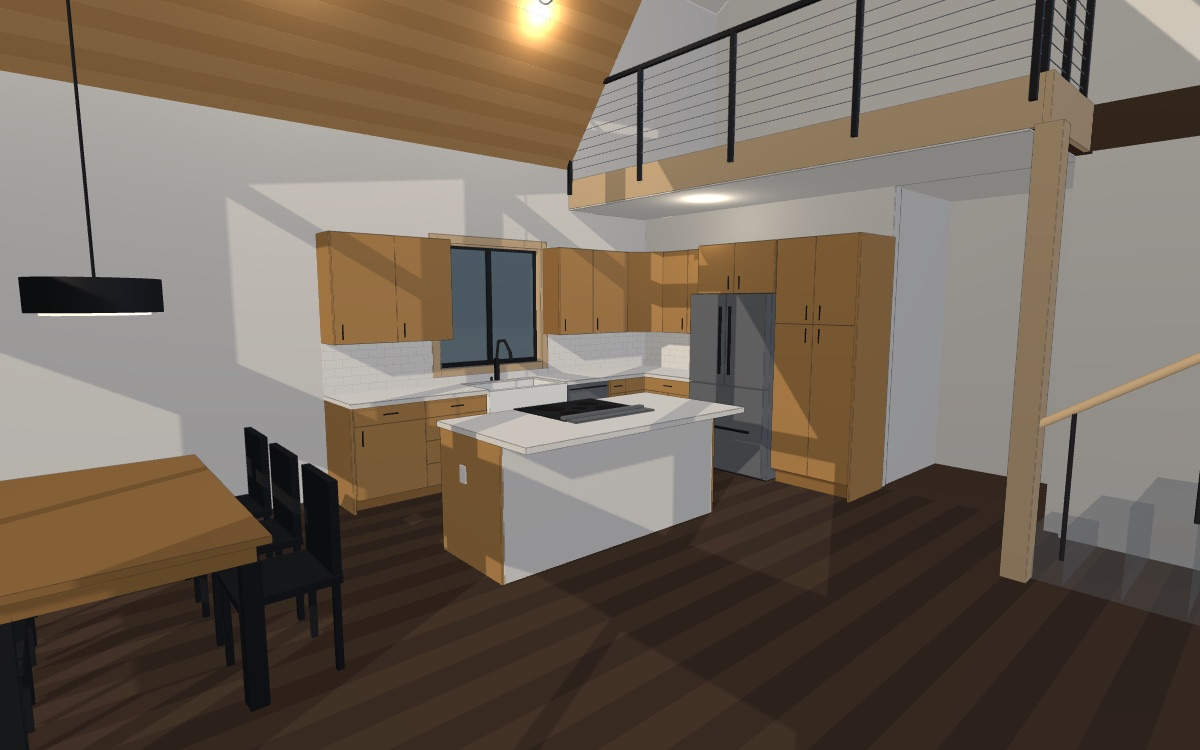
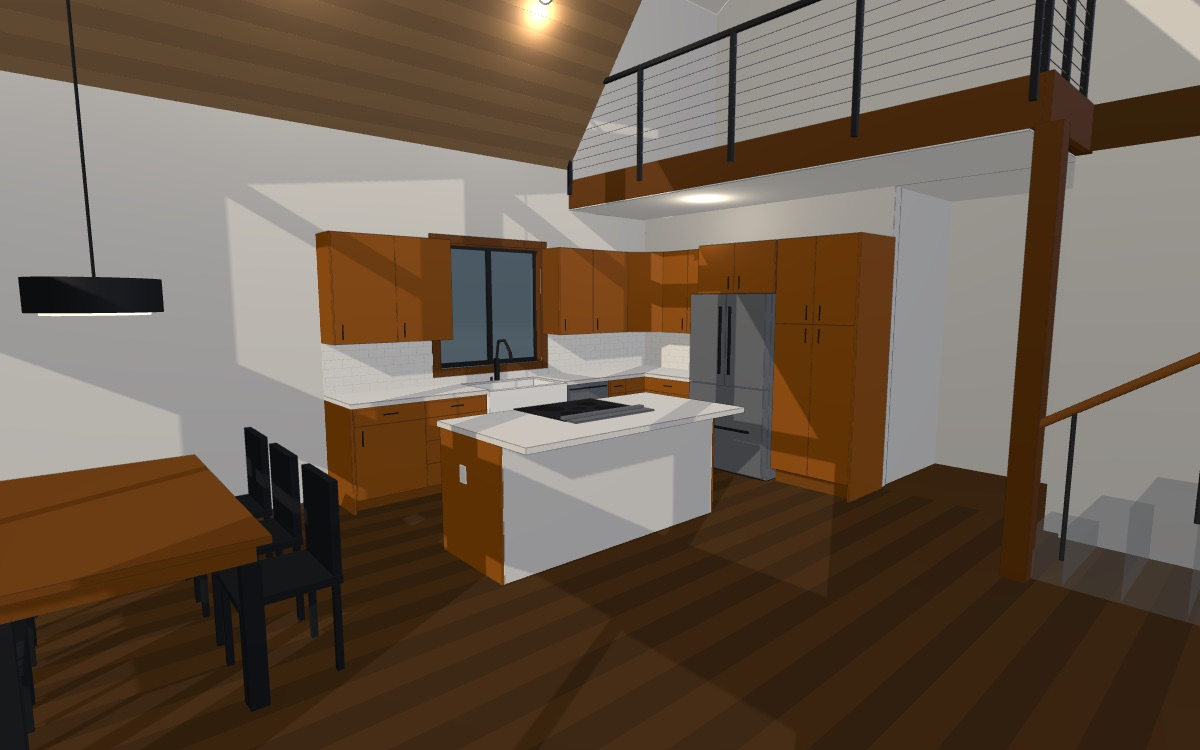
feat: kitchen renders and finish-option sheets on the kitchen card

diff --git a/index.html b/index.html
@@ -33,6 +33,13 @@
   .chips a{font-size:12px;padding:5px 10px;border-radius:999px;border:1px solid var(--line);background:#2c313a;color:#dfe3e8;}
   .chips a:hover{background:#3a404b;}
   .chips a.open{background:var(--accent);border-color:var(--accent);color:#1b1e23;font-weight:600;}
+  .renders{display:grid;grid-template-columns:1fr 1fr;gap:8px;margin-top:2px;}
+  .renders figure{margin:0;}
+  .renders .wide{grid-column:1 / -1;}
+  .renders a{display:block;border-radius:8px;overflow:hidden;border:1px solid var(--line);background:#14161a;}
+  .renders img{width:100%;height:auto;display:block;transition:transform .2s ease;}
+  .renders a:hover img{transform:scale(1.02);}
+  .renders figcaption{font-size:11.5px;color:var(--muted);line-height:1.35;margin-top:4px;}
   .gallery .grid{display:grid;grid-template-columns:repeat(auto-fill,minmax(220px,1fr));gap:12px;}
   .gallery a{display:block;border-radius:10px;overflow:hidden;border:1px solid var(--line);aspect-ratio:4/3;background:#14161a;}
   .gallery img{width:100%;height:100%;object-fit:cover;display:block;transition:transform .2s ease;}
@@ -164,7 +171,18 @@
       <div class="body">
         <h3><a href="kitchen.html">Kitchen &amp; great room &mdash; lower floor interior</a></h3>
         <p>Lower-floor kitchen and great room: the sink run under window D, the fridge and pantry wall under the lounge, a 6'-8" x 3'-6" island, the wood stove and the stair.</p>
-        <span class="meta">Updated 2026-09-14 &middot; 8 camera views</span>
+        <span class="meta">Updated 2026-09-15 &middot; 8 camera views</span>
+        <!-- renders:kitchen -->
+          <span class="meta">Renders (finishes are stand-ins until the samples are photographed)</span>
+          <div class="renders">
+            <figure><a href="img/renders/kitchen/kitchen__default__875ca66.jpg" target="_blank" rel="noopener"><img src="img/renders/kitchen/kitchen__default__875ca66.jpg" alt="Kitchen view from the north-west, default finishes, staged with a bowl, cutting board, plant and basket (decoration, not measured). The bar stools and the dining table are measured placeholders and an open owner decision. The view through window D is a stock sky image, not this site." loading="lazy"></a><figcaption>Kitchen view from the north-west, default finishes, staged with a bowl, cutting board, plant and basket (decoration, not measured). The bar stools and the dining table are measured placeholders and an open owner decision. The view through window D is a stock sky image, not this site.</figcaption></figure>
+            <figure><a href="img/renders/kitchen/island__default__875ca66.jpg" target="_blank" rel="noopener"><img src="img/renders/kitchen/island__default__875ca66.jpg" alt="Island view from the east, default finishes, staged with a cutting board and a bowl on the island (decoration, not measured); the plant and basket sit behind this camera. The dining table and chairs are measured placeholders and an open owner decision. Window views are stand-ins: the owner&#x27;s Mount Rainier photograph, stretched wide, in the north slider, a stock sky in the other windows." loading="lazy"></a><figcaption>Island view from the east, default finishes, staged with a cutting board and a bowl on the island (decoration, not measured); the plant and basket sit behind this camera. The dining table and chairs are measured placeholders and an open owner decision. Window views are stand-ins: the owner&#x27;s Mount Rainier photograph, stretched wide, in the north slider, a stock sky in the other windows.</figcaption></figure>
+            <figure><a href="img/renders/kitchen/sink__default__875ca66.jpg" target="_blank" rel="noopener"><img src="img/renders/kitchen/sink__default__875ca66.jpg" alt="Sink view, default finishes, staged with a potted plant left of the sink and a wicker basket right of it (decoration, not measured). The light switch beside the window overlaps the casing, a takeoff still to be read from sheet E01. The view through window D is a stock sky image, not this site." loading="lazy"></a><figcaption>Sink view, default finishes, staged with a potted plant left of the sink and a wicker basket right of it (decoration, not measured). The light switch beside the window overlaps the casing, a takeoff still to be read from sheet E01. The view through window D is a stock sky image, not this site.</figcaption></figure>
+            <figure class="wide"><a href="img/renders/kitchen/island__default-vs-alder-husk-vs-alder-praline__875ca66.jpg" target="_blank" rel="noopener"><img src="img/renders/kitchen/island__default-vs-alder-husk-vs-alder-praline__875ca66.jpg" alt="Island view comparing two cabinet stain options against the default: alder-husk (lighter) and alder-praline (medium brown). Both approximate KraftMaid Thornton knotty alder swatch chips over a CC0 knotty-pine stand-in, not the owner&#x27;s sample; read them as light against dark, not as a colour match. The dining table and chairs at the right edge are measured placeholders; window views are stand-ins. The cabinet stain is an open owner decision." loading="lazy"></a><figcaption>Island view comparing two cabinet stain options against the default: alder-husk (lighter) and alder-praline (medium brown). Both approximate KraftMaid Thornton knotty alder swatch chips over a CC0 knotty-pine stand-in, not the owner&#x27;s sample; read them as light against dark, not as a colour match. The dining table and chairs at the right edge are measured placeholders; window views are stand-ins. The cabinet stain is an open owner decision.</figcaption></figure>
+            <figure class="wide"><a href="img/renders/kitchen/island__default-vs-quartz-warm-vs-quartz-cool__875ca66.jpg" target="_blank" rel="noopener"><img src="img/renders/kitchen/island__default-vs-quartz-warm-vs-quartz-cool__875ca66.jpg" alt="Island view comparing two quartz counter options against the default: quartz-warm (Calacatta-style, warm white with bold taupe veins) and quartz-cool (Carrara-style, cool grey-white with fine grey veins). All three are procedural stand-ins for a slab, not photographs of one. The dining table and chairs at the right edge are measured placeholders; window views are stand-ins. The counter is an open owner decision." loading="lazy"></a><figcaption>Island view comparing two quartz counter options against the default: quartz-warm (Calacatta-style, warm white with bold taupe veins) and quartz-cool (Carrara-style, cool grey-white with fine grey veins). All three are procedural stand-ins for a slab, not photographs of one. The dining table and chairs at the right edge are measured placeholders; window views are stand-ins. The counter is an open owner decision.</figcaption></figure>
+            <figure class="wide"><a href="img/renders/kitchen/sink__default-vs-painted-trim__875ca66.jpg" target="_blank" rel="noopener"><img src="img/renders/kitchen/sink__default-vs-painted-trim__875ca66.jpg" alt="Sink view comparing the default knotty alder window casing against painted-trim, a warm off-white per Basis of Design line 0680. The painted colour is a rendered approximation, not a paint chip match; the view through window D, a third of each panel, is a stock sky image and not this site. The trim finish is an open owner decision." loading="lazy"></a><figcaption>Sink view comparing the default knotty alder window casing against painted-trim, a warm off-white per Basis of Design line 0680. The painted colour is a rendered approximation, not a paint chip match; the view through window D, a third of each panel, is a stock sky image and not this site. The trim finish is an open owner decision.</figcaption></figure>
+          </div>
+          <!-- /renders:kitchen -->
         <div class="chips">
           <a class="open" href="kitchen.html">Open drawing</a>
           <a href="kitchen.html?view=island">Island</a>

diff --git a/kitchen.html b/kitchen.html
@@ -1639,9 +1639,11 @@ scene.add(fill);
 
 // ===== EDIT: M (materials, one per legend swatch) =====
 const M = {
-  cabFront: new THREE.MeshStandardMaterial({ color: 0xb8894f, roughness: .72 }),
-  cabBox:   new THREE.MeshStandardMaterial({ color: 0x9a6f3c, roughness: .75 }),   // cabinet boxes / interiors
-  trimCasing: new THREE.MeshStandardMaterial({ color: 0xd2b48c, roughness: .75 }),   // knotty alder casing (assumed)
+  cabFront: new THREE.MeshStandardMaterial({ color: 0x9a5406, roughness: .72 }),
+  cabBox:   new THREE.MeshStandardMaterial({ color: 0x7c4304, roughness: .75 }),   // cabinet boxes / interiors
+  diningTable: new THREE.MeshStandardMaterial({ color: 0x7c4304, roughness: .75 }),   // dining table placeholder: its own slot so a cabinet stain never restains it (render review 2026-09-15)
+  fanBlade: new THREE.MeshStandardMaterial({ color: 0x7c4304, roughness: .75 }),   // ceiling fan blades, same reason
+  trimCasing: new THREE.MeshStandardMaterial({ color: 0x683907, roughness: .75 }),   // knotty alder casing (assumed)
   counterTop: new THREE.MeshStandardMaterial({ color: 0xe9e6df, roughness: .35 }),
   backsplash: new THREE.MeshStandardMaterial({ color: 0xf2f0ea, roughness: .3 }),
   backsplashGrout: new THREE.MeshStandardMaterial({ color: 0xd7d3cb, roughness: .8 }),
@@ -1651,14 +1653,14 @@ const M = {
   devicePlate: new THREE.MeshStandardMaterial({ color: 0xf2f0eb, roughness: .35 }),   // switch / receptacle cover plates (white nylon)
   gyp:     new THREE.MeshStandardMaterial({ color: 0xe4e1da, roughness: .95 }),
   gypC:    new THREE.MeshStandardMaterial({ color: 0xf0eeea, roughness: .95 }),
-  floorPlank: new THREE.MeshStandardMaterial({ color: 0x4a3728, roughness: .8 }),
-  floorPlankB: new THREE.MeshStandardMaterial({ color: 0x3e2d21, roughness: .8 }),
-  ceilBoard: new THREE.MeshStandardMaterial({ color: 0xc99a63, roughness: .8 }),
-  ceilBoardB: new THREE.MeshStandardMaterial({ color: 0xbf8f58, roughness: .8 }),
-  glb:     new THREE.MeshStandardMaterial({ color: 0xa8743f, roughness: .75 }),
+  floorPlank: new THREE.MeshStandardMaterial({ color: 0x51310b, roughness: .8 }),
+  floorPlankB: new THREE.MeshStandardMaterial({ color: 0x432909, roughness: .8 }),
+  ceilBoard: new THREE.MeshStandardMaterial({ color: 0x997752, roughness: .8 }),
+  ceilBoardB: new THREE.MeshStandardMaterial({ color: 0x8d6d4c, roughness: .8 }),
+  glb:     new THREE.MeshStandardMaterial({ color: 0x7e6140, roughness: .75 }),
   glass:   new THREE.MeshStandardMaterial({ color: 0x9fc4d8, roughness: .1, metalness: .1, transparent: true, opacity: .28, side: THREE.DoubleSide }),
   hearthVeneer: new THREE.MeshStandardMaterial({ color: 0x8a8580, roughness: .95 }),
-  hearthTop: new THREE.MeshStandardMaterial({ color: 0x6f6a66, roughness: .9 }),
+  hearthTop: new THREE.MeshStandardMaterial({ color: 0x676564, roughness: .9 }),
   stoveBody: new THREE.MeshStandardMaterial({ color: 0x1a1a1a, roughness: .55, metalness: .4 }),
   wood:    new THREE.MeshStandardMaterial({ color: 0xd9b98a, roughness: .85 }),   // DF framing
   lvl:     new THREE.MeshStandardMaterial({ color: 0xc9a072, roughness: .85 }),
@@ -2146,7 +2148,7 @@ slopedBoxZ(D.HALL_X1, 0, -150, -D.GLB_W / 2, yd, D.DORM_SLOPE, .75, M.gypC, 'lou
   for (const z of [-36, -58, -80, -102]) { const t = (D.WELL_Z2 - z) / 88; bar(V(.75, 60 * t, z), V(.75, 36 + 60 * t, z), .5, M.black, 'lounge'); }
   box(D.UT_X1, D.UT_X2, 0, D.LNG_LO, D.W_GYP, -27, M.gyp, 'lounge', false);                       // stair south wall / utility east wall
   box(D.HALL_X1, D.UT_X1, 0, D.LNG_LO, -27, D.HALL_Z1, M.gyp, 'lounge', false);                   // utility wall along the hall
-  box(D.HALL_X1, D.S_FACE, 0, D.LNG_LO, D.HALL_Z2, D.HALL_Z2 + 4.5, M.gyp, 'lounge', false);       // guest-bath wall along the hall
+  box(D.HALL_X1, D.S_BACK, 0, D.LNG_LO, D.HALL_Z2, D.HALL_Z2 + 4.5, M.gyp, 'lounge', false);       // guest-bath wall along the hall; stops at the partition's south face -- run to S_FACE its end face shared the partition's room-side plane and the two z-fought in renders (phase 2 critic finding 1)
   // Boundary shell under the loft floor, added 2026-09-11 (phase 1b). Without it the kitchen and island
   // renders looked straight out of the house to the south-west: the volume below LNG_LO had no west, east
   // or south face, because this drawing is of the kitchen and simply stopped. The east and west planes ARE
@@ -2305,7 +2307,7 @@ for (const cx of D.CAN_X) for (const cz of D.CAN_Z) { const pl = new THREE.Point
   cyl(D.FAN_X, 0, D.FAN_Y - 5.5, D.FAN_Y - 3, 3, M.led, 'elec');                                // light kit
   for (let i = 0; i < 6; i++) {                                                                  // 6 blades, 52" sweep
     const a = i * Math.PI / 3, bl = box(D.FAN_X + 15 * Math.cos(a) - 11, D.FAN_X + 15 * Math.cos(a) + 11, D.FAN_Y - 1.2, D.FAN_Y - .7,
-                                        15 * Math.sin(a) - 2.4, 15 * Math.sin(a) + 2.4, M.cabBox, 'elec');
+                                        15 * Math.sin(a) - 2.4, 15 * Math.sin(a) + 2.4, M.fanBlade, 'elec');
     bl.rotation.y = -a;
   }
   // Cover plates carry their own slot (devicePlate) rather than borrowing the sink's white, and the four on
@@ -2450,8 +2452,8 @@ for (const cx of D.CAN_X) for (const cz of D.CAN_Z) { const pl = new THREE.Point
 {
   const L = 72, W = 36, H = 30, xc = (D.ER_X2 + D.N_GYP) / 2, zc = 75;            // centred in the 10'-3" gap and on the east half of the room
   const x1 = xc - W / 2, x2 = xc + W / 2, z1 = zc - L / 2, z2 = zc + L / 2;
-  box(x1, x2, H - 1.25, H, z1, z2, M.cabBox, 'dining');                                 // top
-  box(x1 + 2, x2 - 2, H - 4.5, H - 1.25, z1 + 2, z2 - 2, M.cabBox, 'dining', false);     // apron
+  box(x1, x2, H - 1.25, H, z1, z2, M.diningTable, 'dining');                                 // top
+  box(x1 + 2, x2 - 2, H - 4.5, H - 1.25, z1 + 2, z2 - 2, M.diningTable, 'dining', false);     // apron
   for (const [lx, lz] of [[x1 + 3, z1 + 3], [x2 - 3, z1 + 3], [x1 + 3, z2 - 3], [x2 - 3, z2 - 3]]) box(lx - 1.5, lx + 1.5, 0, H - 4.5, lz - 1.5, lz + 1.5, M.black, 'dining', false);
   function chair(cx, cz, side) {                                                         // side +1: chair north of the table, -1: south; seat 17" square, 18" high, back to 36"
     const sx1 = side > 0 ? x2 - 5 : x1 - 12, sx2 = sx1 + 17;                            // 5" tucked under the table
